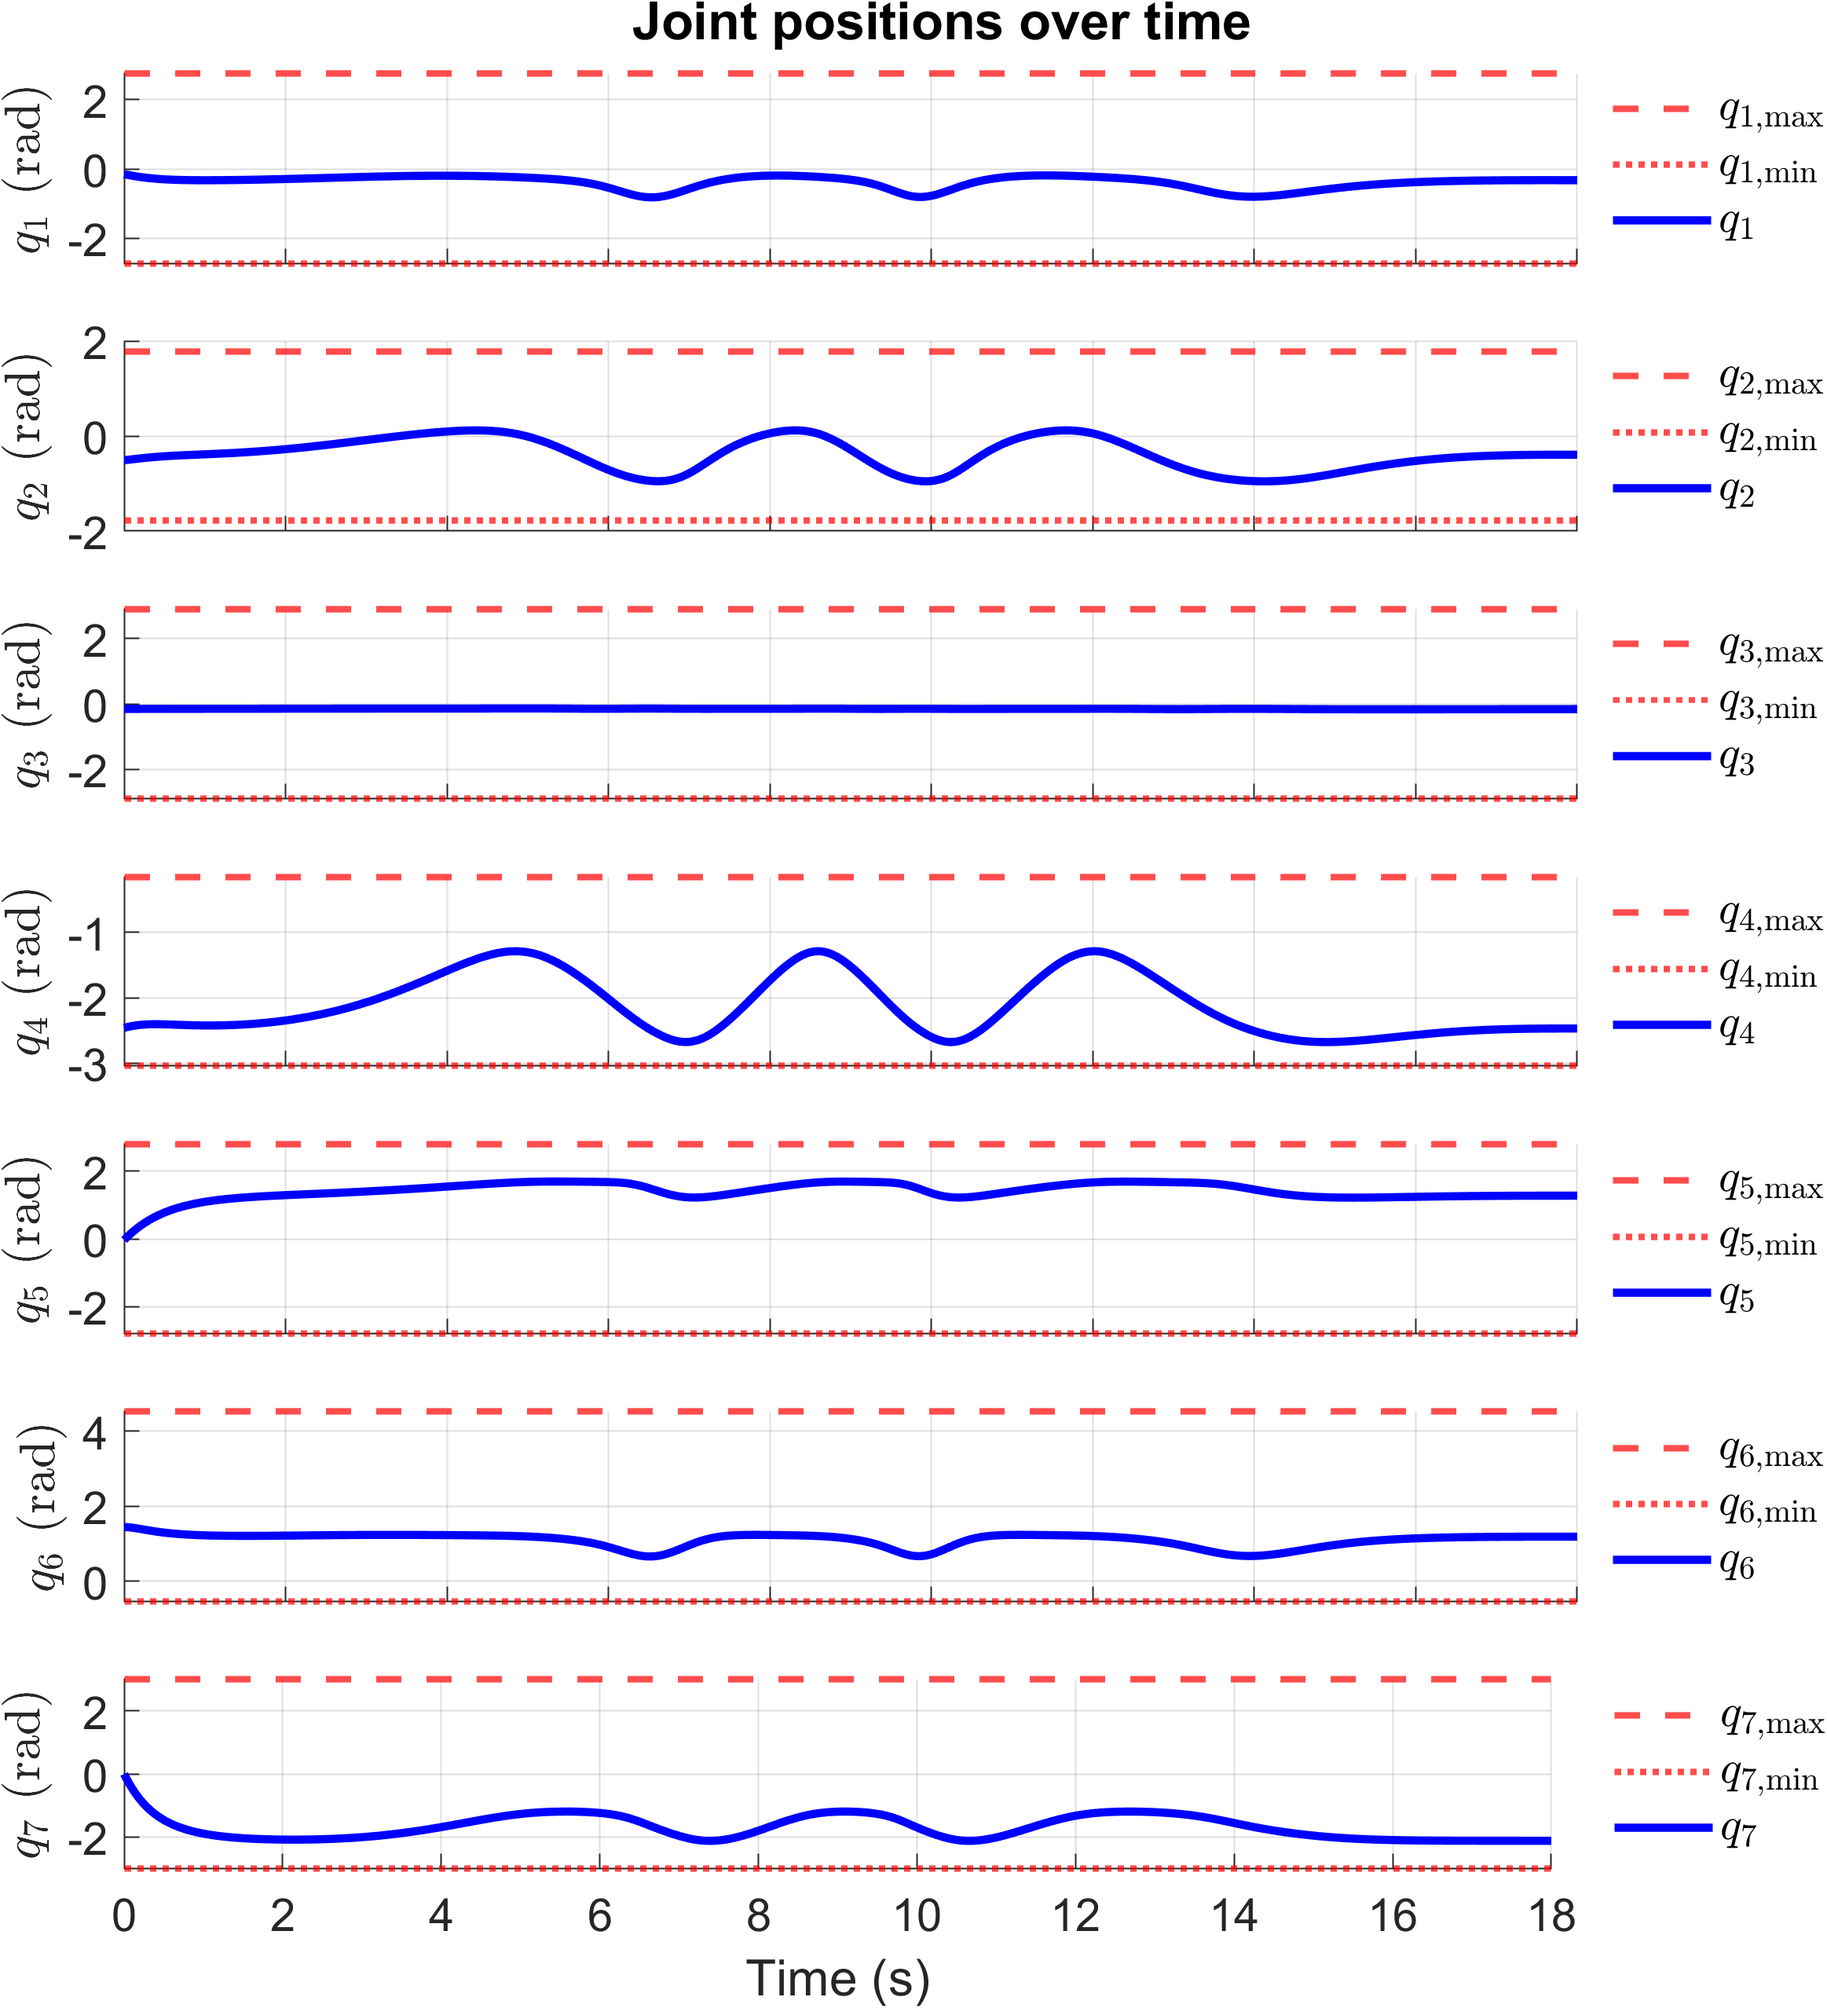
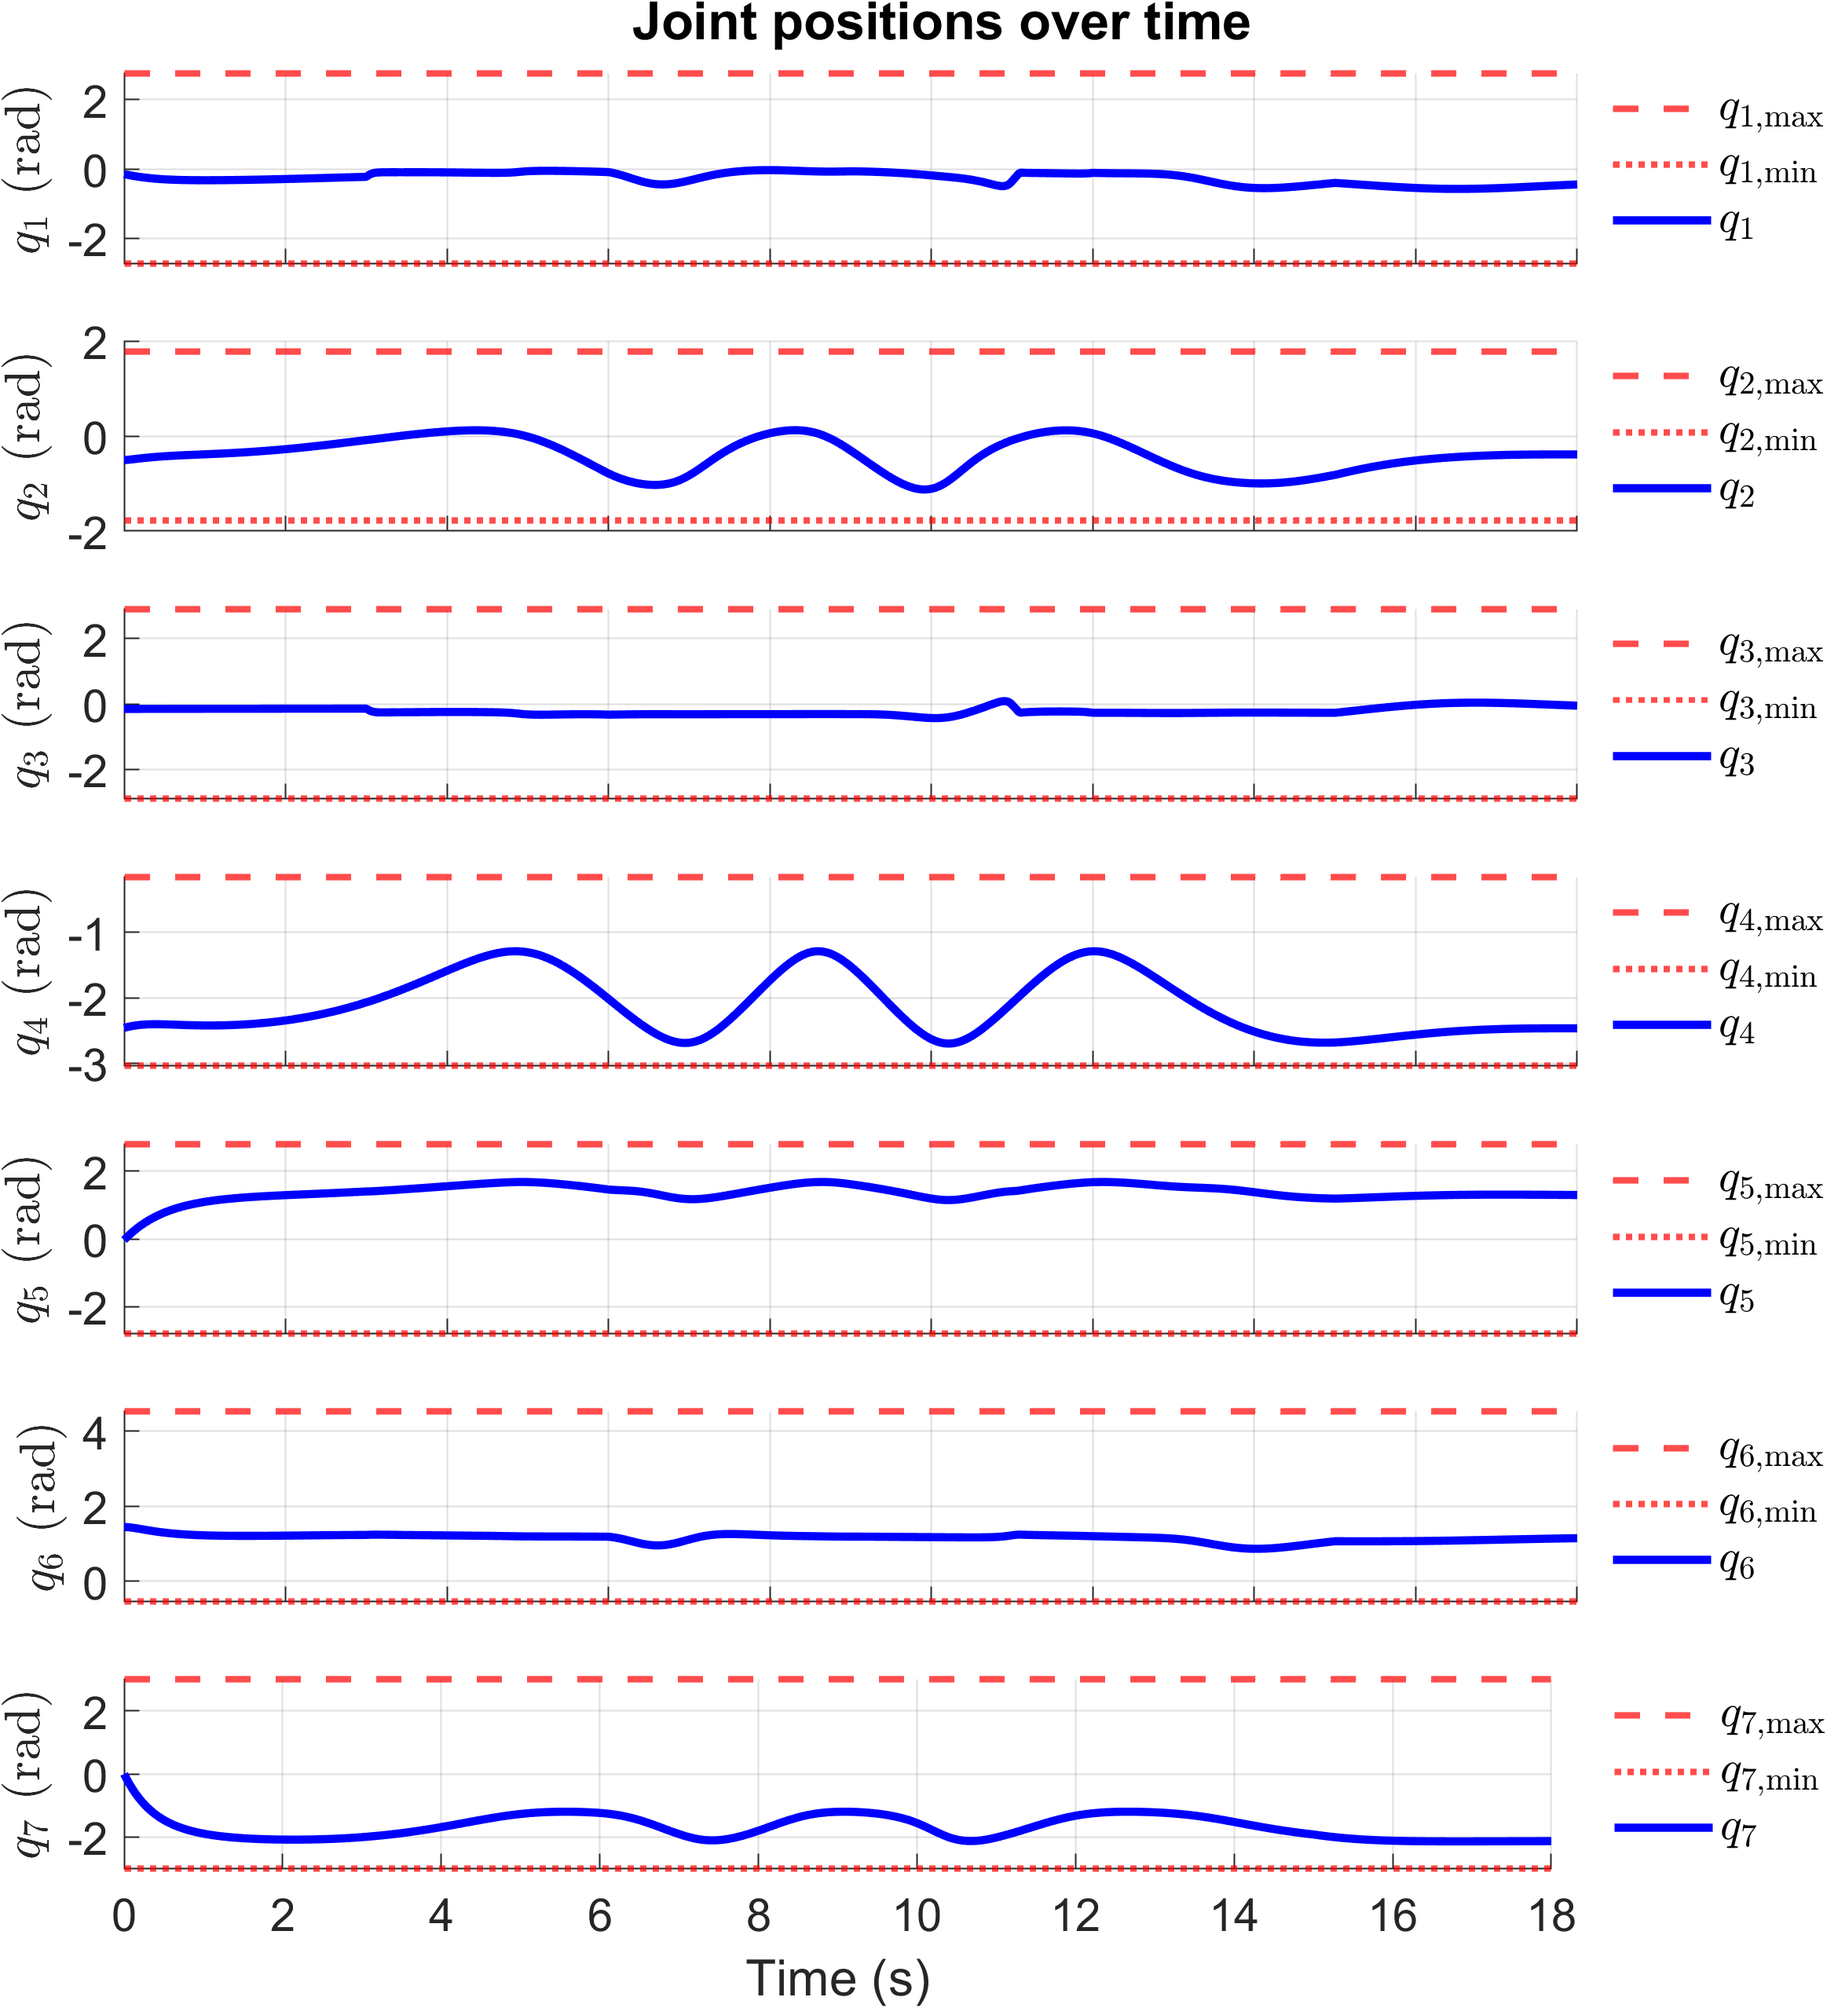
working RG acc level circular path

diff --git a/src/orientation_circular.m b/src/orientation_circular.m
@@ -10,13 +10,55 @@ addpath("./Plots/")
 %% GLOBALS
 N = 7; % number of joints
 T = 18; % total time for the trajectory [s]
+dt = 0.001;
 rep = 3;
 R = 0.2; % radius of the circular path [m]
+initial_offset = [-0.05; -0.05; -0.05]; % initial offset from the path
 alpha = 1;
 damp = 2;
 use_RG = true; % use reduced gradient step if true, else use projected gradient step
-use_accel = true; % use acceleration if true, else use velocity
+use_accel = false; % use acceleration if true, else use velocity
 
+% For RG only
+list_joints = 1:N;
+qB_idx1 = [3]; % indices of joints in B (N-M = 1)
+qA_idx1 = setdiff(list_joints, qB_idx1);  % indices of joints in A (nonsingular)
+
+qB_idx2 = [6];
+qA_idx2 = setdiff(list_joints, qB_idx2);
+
+
+if use_accel == true % when we are at acceleration level
+    if use_RG == true
+        Kp = 2;
+        Kd = 2;
+        alpha = 0.0075;
+        damp = 2;
+        qB_idx2 = qB_idx1;
+        qA_idx2 = qA_idx1;
+    else
+        Kp = 5;
+        Kd = 5;
+    end
+
+else % when we are at velocity level
+    if use_RG == true
+        Kp = 2;
+    else
+        Kp = 2;
+    end
+    Kd = 2;  % Not used for velocity (use_accel=false)
+end
+
+% Kp
+% Kd
+% alpha
+% damp
+% qA_idx1
+% qB_idx1
+% qA_idx2
+% qB_idx2
+ 
 %% LIMITS (from Docs)
 LIM_q_max       = [2.7437, 1.7837, 2.9007, -0.1518, 2.8065, 4.5169, 3.0159]'; % [rad]
 LIM_q_min       = [-2.7437, -1.7837, -2.9007, -3.0421, -2.8065, -0.5445, -3.0159]'; % [rad]
@@ -42,42 +84,24 @@ p_s{4} = get_p(q_s{4});
 
 p_sing = p_s{3};
 q_sing = q_s{3};
-% fprintf("Before Clamping:\n q_s = [%f, %f, %f, %f, %f, %f, %f]\n", q_sing(1), q_sing(2), q_sing(3), q_sing(4), q_sing(5), q_sing(6), q_sing(7));
-% q_sing = clamp_vec(q_sing, LIM_q_min, LIM_q_max); % clamp to limits
-% fprintf("After Clamping:\n q_s = [%f, %f, %f, %f, %f, %f, %f]\n", q_sing(1), q_sing(2), q_sing(3), q_sing(4), q_sing(5), q_sing(6), q_sing(7));
-% pause;
 
-%% DEFINING INITIAL AND FINAL POSE
-% Define the variation of displacement in each direction
-% dx = 0.0; % [m]
-% dy = 0.0; % [m]
-% dz = 0.2; % [m]
-% delta = [dx; dy; dz];
-
-% singularity at -0.23, 0.28. 0.89
-
+%% DEFINING DESIRED TRAJECTORY 
 gamma = -pi/2;
 
+syms t_sym real
+tau = t_sym / T;
+s = 2* rep * pi * (6 * tau^5 - 15 * tau^4 + 10 * tau^3);
+% singularity at -0.23, 0.28. 0.89
+% Center of the circular path
 C = [p_sing(1);
      p_sing(2);
      p_sing(3) - R];
 
 freq = rep/T; 
-%% DEFINING DESIRED TRAJECTORY 
+
 t_in = 0; % initial time [s]
 t_fin = t_in + T; % final time [s]
 
-syms t_sym real
-tau = t_sym / T;
-
-s = 2* rep * pi * (6 * tau^5 - 15 * tau^4 + 10 * tau^3);
-
-eq1 = s == pi;
-t_sing_1 = double(solve(eq1, t_sym));
-eq2 = s == 3*pi;
-t_sing_2 = double(solve(eq2, t_sym));
-eq3 = s == 5*pi;
-t_sing_3 = double(solve(eq3, t_sym));
 
 p_x_t = C(1) + R * cos(s + gamma);
 p_y_t = C(2);
@@ -90,13 +114,11 @@ p_fin = subs(p_d_sym, t_sym, t_fin); % final position at t = T
 p_in = double(p_in); % convert to double
 p_fin = double(p_fin); % convert to double
 
-initial_offset = [-0.05; -0.05; -0.05];
-initial_offset = [0.0; 0.0; 0.0];
 p_in = p_in + initial_offset;
 q_in = num_IK_retry(p_in(1:3)); 
 q_fin = num_IK_retry(p_fin(1:3));
 
-
+% Initlai orientation (constant)
 R_in = [0, 1, 0;
         0, 0, 1;
         1, 0, 0];
@@ -111,23 +133,20 @@ disp(['phi_fin = ', num2str(rad2deg(phi_fin'))]);
 delta_phi = phi_fin - phi_in;
 phi_d_sym = vpa(phi_in + delta_phi * (6 * tau^5 - 15 * tau^4 + 10 * tau^3)); % quintic polynomial
 
+% Defining the task
 r_d_sym = vpa([p_d_sym; phi_d_sym]);
 r_dot_sym = diff(r_d_sym, t_sym);  % firt der
 r_ddot_sym = diff(r_dot_sym, t_sym); % second der
 
+% Fing the t when the manipulator is expected to pass in singularity
+eq1 = s == pi;
+t_sing_1 = double(solve(eq1, t_sym));
+eq2 = s == 3*pi;
+t_sing_2 = double(solve(eq2, t_sym));
+eq3 = s == 5*pi;
+t_sing_3 = double(solve(eq3, t_sym));
 
-% R_in = get_R(q_in);
-% R_fin = get_R(q_fin);
-
-% Compute the initial and final XYZ Euler orientation
-% seq_rot = 'XYZ';
-% phi_in = get_phi(R_in); % initial orientation angles
-% phi_fin = get_phi(R_fin); % final orientation angles
-
-% dp_sym = diff(p_d_sym, t_sym); % first derivative (velocity)
-% ddp_sym = diff(dp_sym, t_sym); % second derivative (acceleration)
-
-
+%% ALGORITHM
 q_list = []; % to store joint positions
 dq_list = []; % to store joint velocities
 ddq_list = []; % to store joint accelerations
@@ -137,18 +156,13 @@ dp_list = []; % to store end-effector velocities
 ddp_list = []; % to store end-effector accelerations
 error_list = []; % to store error norms
 
-qA_idx = [1,2,4,5,6,7]; % indices of joints in A (nonsingular)
-qB_idx = [3]; % indices of joints in B (N-M = 1)
-
-
-dt = 0.001; % time step
+ % time step
 t = 0.0;
 q = q_in; % initialize joint position
 dq = zeros(N, 1); % initialize joint velocity
 ddq = zeros(N, 1); % initialize joint acceleration
 
 t_sing = 0;
-
 
 if ~use_accel
     disp("Using velocity control (no acceleration)");
@@ -160,6 +174,7 @@ if use_RG
 else
     disp("Using Projected Gradient Step");
 end
+
 disp("press any key to start the simulation...");
 pause; % wait for user input to start the simulation
 
@@ -169,11 +184,11 @@ while t <= t_fin % run for a fixed time
     rep_progress = mod(t * freq, 1); % progress within current repetition (0 to 1)
 
     if rep_progress < 0.5
-        qA_idx = [1,2,4,5,6,7]; % indices of joints in A (nonsingular)
-        qB_idx = [3]; % indices of joints in B (N-M = 1)
+        qA_idx = qA_idx1; % indices of joints in A (nonsingular)
+        qB_idx = qB_idx1; % indices of joints in B (N-M = 1)
     else
-        qA_idx = [1,2,4,5,6,7]; % indices of joints in A (nonsingular)
-        qB_idx = [3]; % indices of joints in B (N-M = 1)
+        qA_idx = qA_idx2; % indices of joints in A (nonsingular)
+        qB_idx = qB_idx2; % indices of joints in B (N-M = 1)
     end
 
     % Nominal Trajectory
@@ -212,9 +227,9 @@ while t <= t_fin % run for a fixed time
     % [!] PG or RG step
     if use_accel == true
         if use_RG == true
-            ddq = reduced_grad_step_acc(q, dq, ddp_nom, qA_idx, qB_idx, p_nom, dp_nom, alpha, damp,5,5); % compute joint velocity using reduced gradient step
+            ddq = reduced_grad_step_acc(q, dq, ddp_nom, qA_idx, qB_idx, p_nom, dp_nom, alpha, damp,Kp,Kd); % compute joint velocity using reduced gradient step
         else
-            ddq = proj_grad_step_acc(q, dq, ddp_nom, p_nom, dp_nom, 5,5); % compute joint acceleration using projected gradient step
+            ddq = proj_grad_step_acc(q, dq, ddp_nom, p_nom, dp_nom, Kp, Kd); % compute joint acceleration using projected gradient step
         end
         %disp(['ddq = [', num2str(ddq'), ']']);
 
@@ -227,9 +242,9 @@ while t <= t_fin % run for a fixed time
         %disp(['Clamped dq = [', num2str(dq'), ']']);
     else
         if use_RG == true
-            dq = reduced_grad_step(q, dp_nom, qA_idx, qB_idx, p_nom,2); % compute joint velocity using reduced gradient step
+            dq = reduced_grad_step(q, dp_nom, qA_idx, qB_idx, p_nom,Kp); % compute joint velocity using reduced gradient step
         else
-            dq = proj_grad_step(q, dp_nom, p_nom, 2); % compute joint velocity using projected gradient step
+            dq = proj_grad_step(q, dp_nom, p_nom, Kp); % compute joint velocity using projected gradient step
         end
     end
     dq = clamp_vec(dq, -LIM_dq_max, LIM_dq_max); % clamp joint velocity to max limits
@@ -251,31 +266,13 @@ fin_err = p_fin(1:3) - p(1:3);
 fprintf("Norm of final error: %.4f\n", norm(fin_err))
 
 
-% % % plot joint over time
-% disp("Simulation finished. Plotting results...");
-% 
-% figure;
-% 
-% % Plot end-effector position over time
-% subplot(2, 1, 1);
-% hold on;
-
-% if T > 2
-%     if T < 16
-%         time = 0:dt:t_fin;
-%     else
-%         time = 0:dt:t_fin-dt; % time vector for plotting
-%     end
-%      % time vector for plotting
-% else
-%     time = 0:dt:t_fin-dt;
-% end
-
-time = 0:dt:t_fin;
-
 %% PLOT OF THE RESULTS
 % plot joint over time
 disp("Simulation finished. Plotting results...");
+time = 0:dt:t_fin;
+min_len = min(length(time), length(q_list));
+time = time(1:min_len);
+
 t_sing = [t_sing_1, t_sing_2, t_sing_3];
 
 if use_accel == true
@@ -301,8 +298,6 @@ end
 
 plotNormVelocity(time, dp_list, r_dot_sym, t_sym)
 plotNormAcceleration(time, ddp_list, r_ddot_sym, t_sym)
-
-
 
 %%
 
@@ -337,10 +332,7 @@ zlim([C(3) - dx, C(3) + dx])
 grid on;
 exportgraphics(fig, 'EndEffector3D.png', 'Resolution', 300);
 
-
-
 close all;
-
 %% Moving the figures
 
 if use_RG == true

diff --git a/src/Plots/plot_all.m b/src/Plots/plot_all.m
@@ -45,26 +45,22 @@ function plot_all(  N, T, ...
     end
 
     % Time vector setup
-%     if T > 2
-%         time = 0:dt:t_fin;
-%     else
-%         time = 0:dt:t_fin-dt;
-%     end
 
-
-%     if T > 2
-%         if T < 16
-%             time = 0:dt:t_fin;
-%         else
-%             time = 0:dt:t_fin-dt; % time vector for plotting
-%         end
-%          
-%         else
-%             time = 0:dt:t_fin-dt;
-%     end
+    if T > 2
+        if T < 16
+            time = 0:dt:t_fin;
+        else
+            time = 0:dt:t_fin-dt; % time vector for plotting
+        end
+         
+        else
+            time = 0:dt:t_fin-dt;
+    end
 
     time = 0:dt:t_fin;
-
+    min_len = min(length(time), length(q_list));
+    time = time(1:min_len);
+    
     % Call plotting functions
     plotEndEffectorPosition(time, p_list, p_d_sym, t_sym);
     plotErrorNorm(time, error_list, t_sing);

diff --git a/src/Trajectory/reduced_grad_step_acc.m b/src/Trajectory/reduced_grad_step_acc.m
@@ -33,8 +33,9 @@ function ddq = reduced_grad_step_acc(q, dq, ddr, qA_idx, qB_idx, p_d, dp_d, alph
 
     J_a_inv = pinv(J_a); % (N_a x M) matrix, where N_a = length(qA_idx), M = 3 or 6
     %J_a_inv = DLS(J_a); % damped least squares inverse of J_a
-
-    H = @(q) simpler_H(q); % function to maximize distance from singularities
+    H_man = @(q) sqrt(det(get_J(q) * get_J(q)'));
+    H = H_man;
+%     H = @(q) simpler_H(q); % function to maximize distance from singularities
 
     grad_H = num_diff(H, q)'; % numerical gradient of H (transposed Jacobian of scalar function)
 
